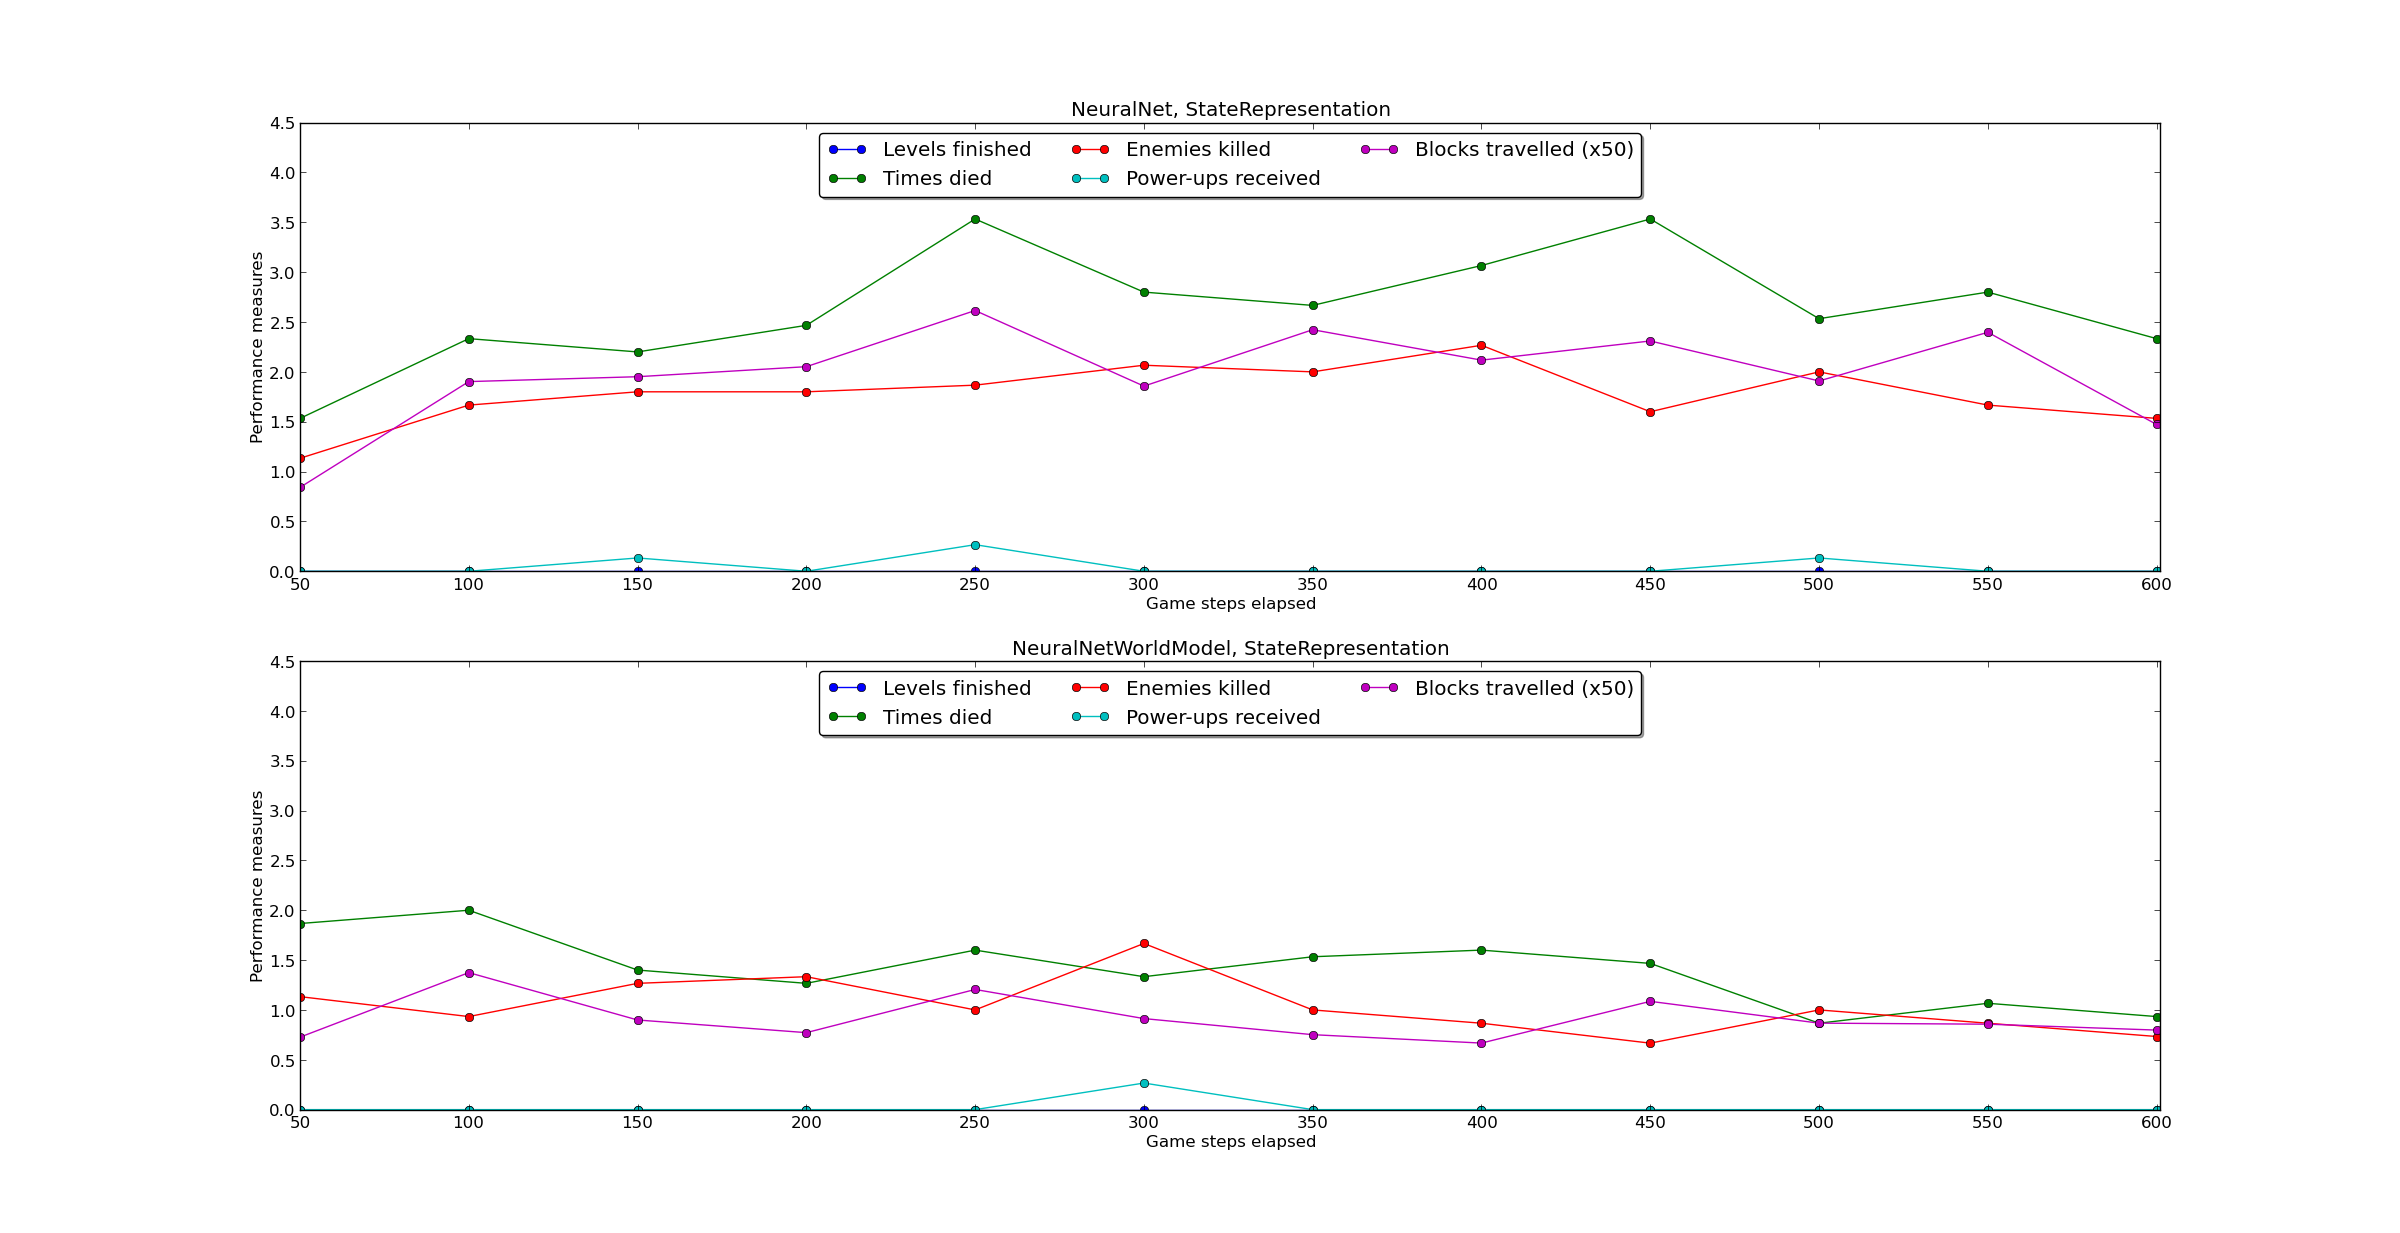
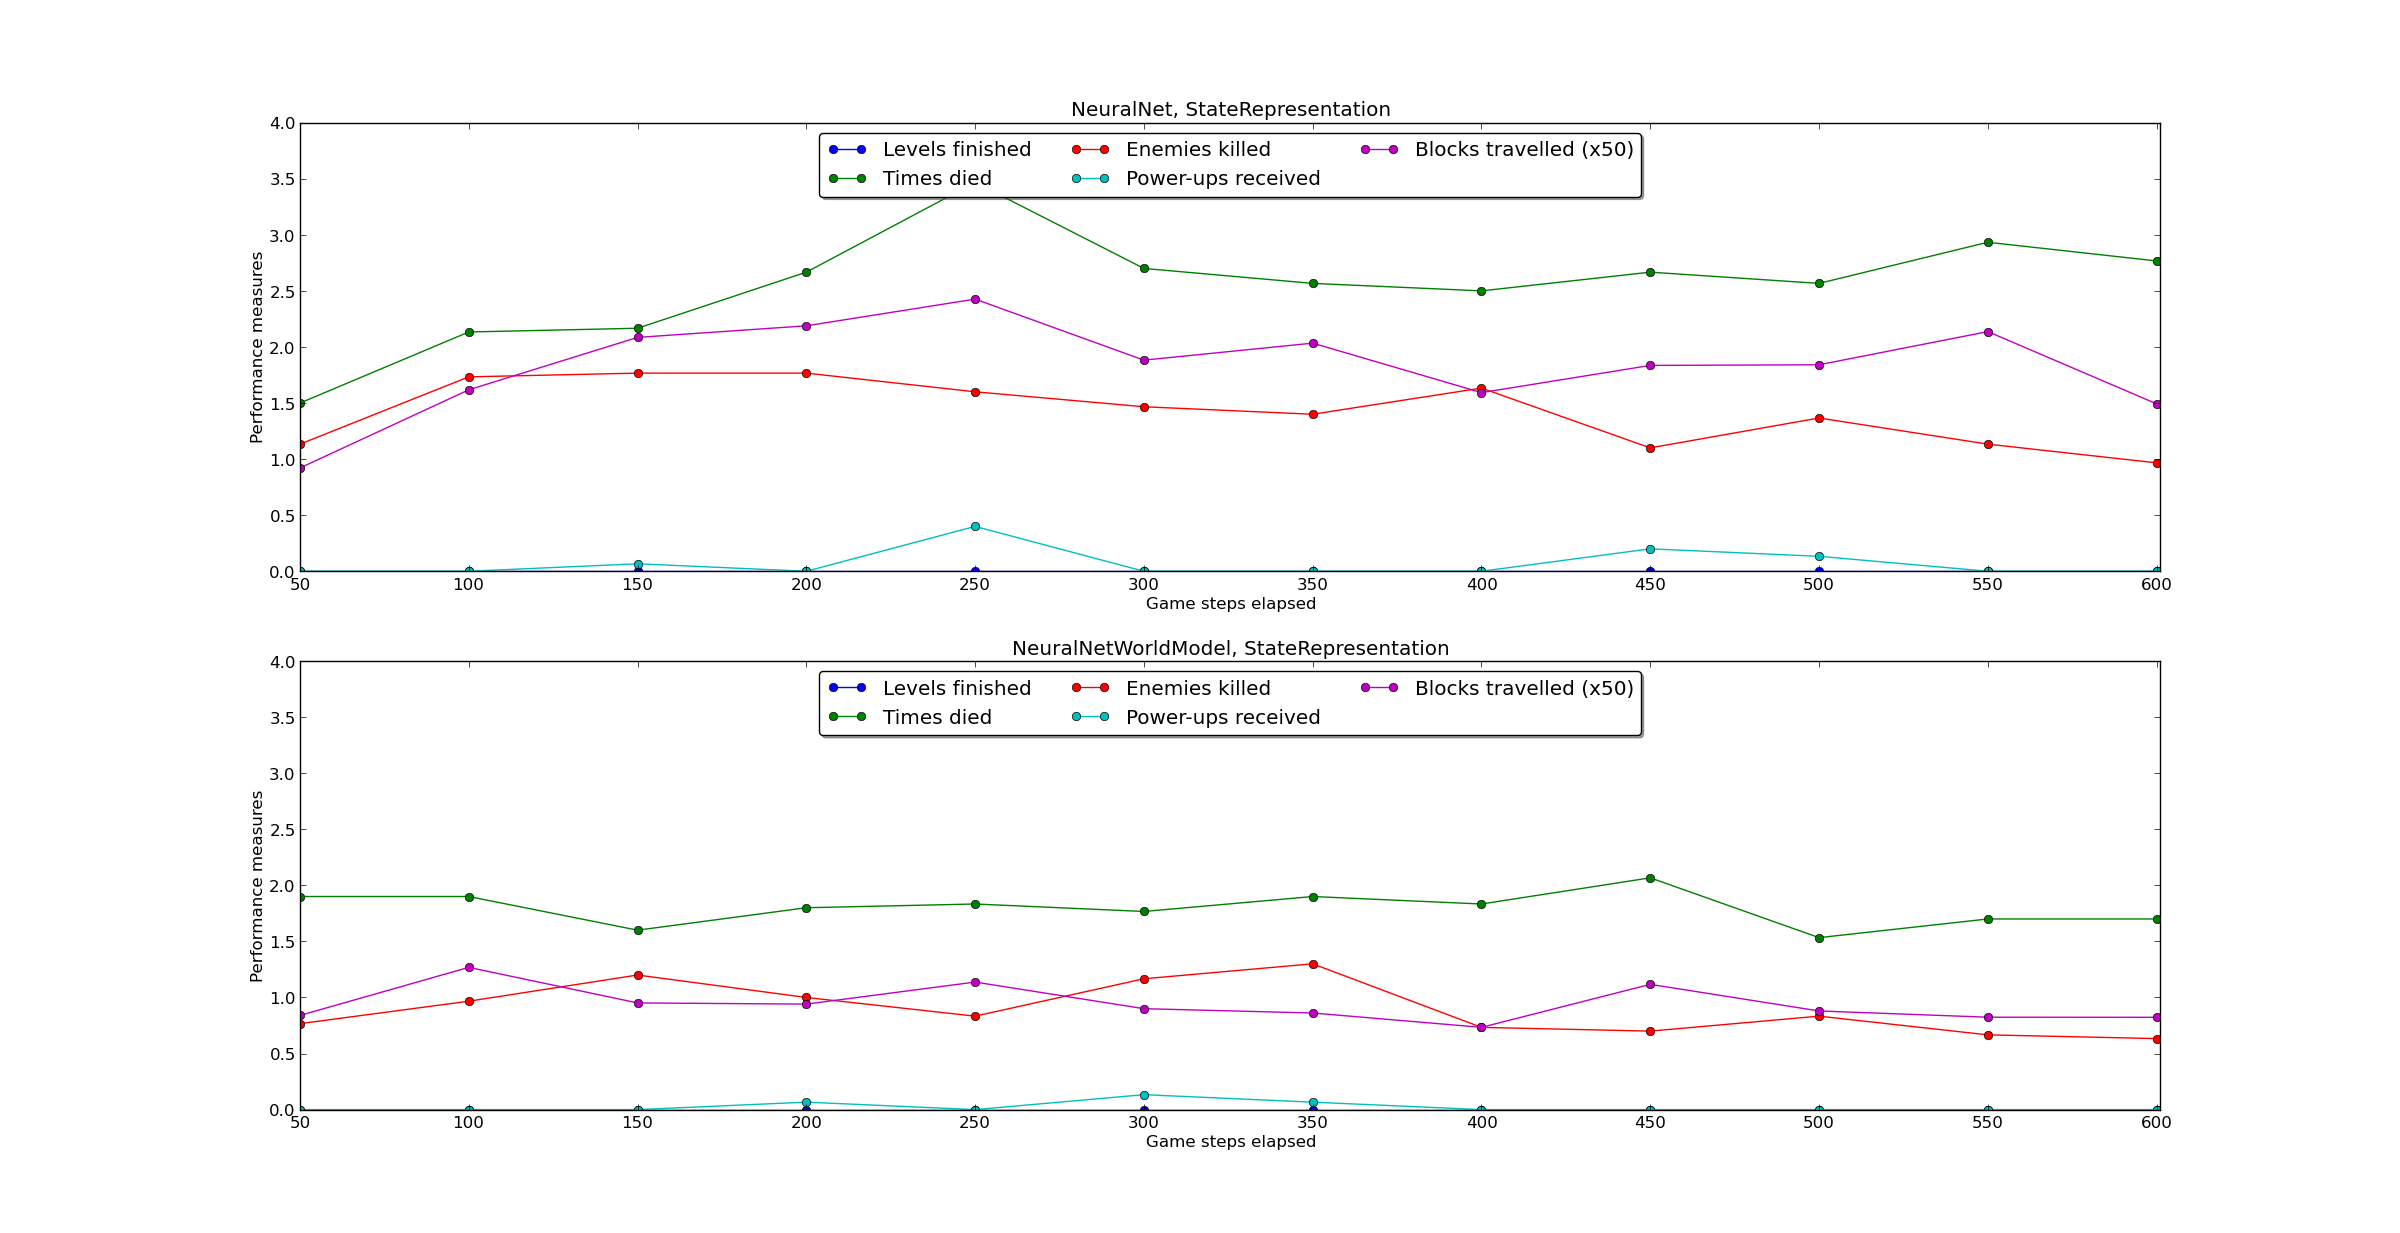
Updated plots.

diff --git a/tamer-share/src/ataa2014_expResults/plot_results.py b/tamer-share/src/ataa2014_expResults/plot_results.py
@@ -2,9 +2,9 @@ import numpy as np
 import matplotlib.pyplot as plt
 import os, re
 
-PLOT_REL_SPEED        = True
+PLOT_REL_SPEED        = False
 NUM_STEPS_PER_SAMPLE  = 50
-MAX_Y                 = 3.0
+MAX_Y                 = 4
 SPEED_MULT            = 50
 
 NUM_LEVELS_FINISHED    = 0
